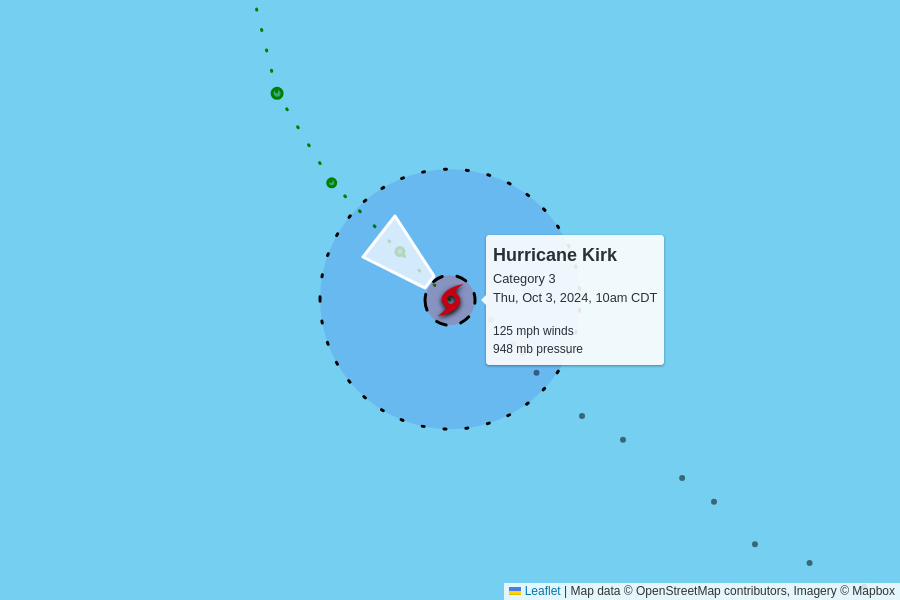
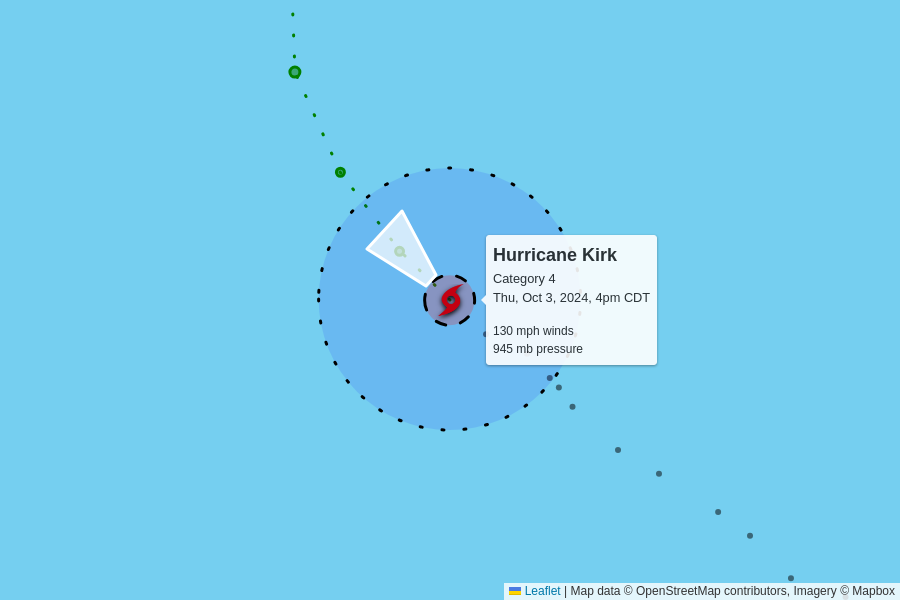
automatic update

diff --git a/docs/index.html b/docs/index.html
@@ -101,10 +101,10 @@
 
     <table>
       <tr>
-        <td colspan="6" class="storm category-3" >
+        <td colspan="6" class="storm category-4" >
           <h2>
-            Hurricane Kirk - Category 3
-            <p class="updated">last updated <span data-time>2024-10-03T15:00:00.000Z</span></p>
+            Hurricane Kirk - Category 4
+            <p class="updated">last updated <span data-time>2024-10-03T21:00:00.000Z</span></p>
           </h2>
         </td>
       </tr>
@@ -119,12 +119,12 @@
       </tr>
       <tr>
         <td class="spacer"></td>
-        <td>125 mph<br>+5 mph since last update</td>
-        <td>948 mb<br>-7 mb since last update</td>
+        <td>130 mph<br>+5 mph since last update</td>
+        <td>945 mb<br>-3 mb since last update</td>
         <td>
-          10 mph to the northwest
+          12 mph to the northwest
           <br/>
-          <span style="display: inline-block; font-size: 1.5em; transform: rotate(310deg);">↑</span>
+          <span style="display: inline-block; font-size: 1.5em; transform: rotate(315deg);">↑</span>
         </td>
         <td><a href="https://raw.githubusercontent.com/mgwalker/atlantic-hurricanes/main/data/csv/AL122024.csv">AL122024.csv</a></td>
         <td><a href="https://www.nhc.noaa.gov/archive/2024/KIRK.shtml?">NHC advisories</a></td>
@@ -148,7 +148,7 @@
         <td colspan="6" class="storm category-0" >
           <h2>
             Tropical Storm Leslie
-            <p class="updated">last updated <span data-time>2024-10-03T15:00:00.000Z</span></p>
+            <p class="updated">last updated <span data-time>2024-10-03T21:00:00.000Z</span></p>
           </h2>
         </td>
       </tr>
@@ -163,12 +163,12 @@
       </tr>
       <tr>
         <td class="spacer"></td>
-        <td>45 mph<br>+5 mph since last update</td>
-        <td>1002 mb<br>-3 mb since last update</td>
+        <td>50 mph<br>+5 mph since last update</td>
+        <td>1001 mb<br>-1 mb since last update</td>
         <td>
-          5 mph to the west
+          6 mph to the west
           <br/>
-          <span style="display: inline-block; font-size: 1.5em; transform: rotate(260deg);">↑</span>
+          <span style="display: inline-block; font-size: 1.5em; transform: rotate(270deg);">↑</span>
         </td>
         <td><a href="https://raw.githubusercontent.com/mgwalker/atlantic-hurricanes/main/data/csv/AL132024.csv">AL132024.csv</a></td>
         <td><a href="https://www.nhc.noaa.gov/archive/2024/LESLIE.shtml?">NHC advisories</a></td>
